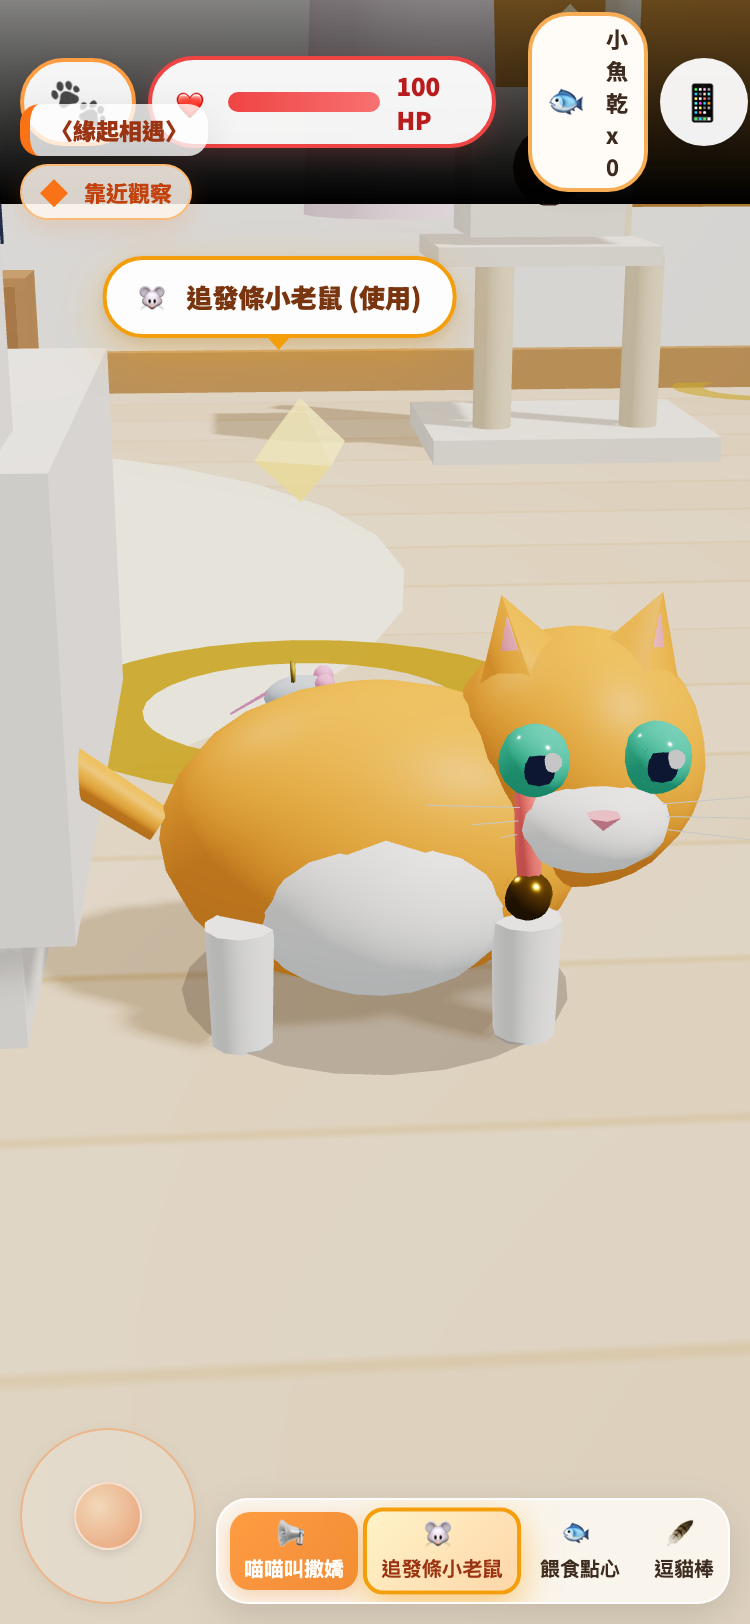
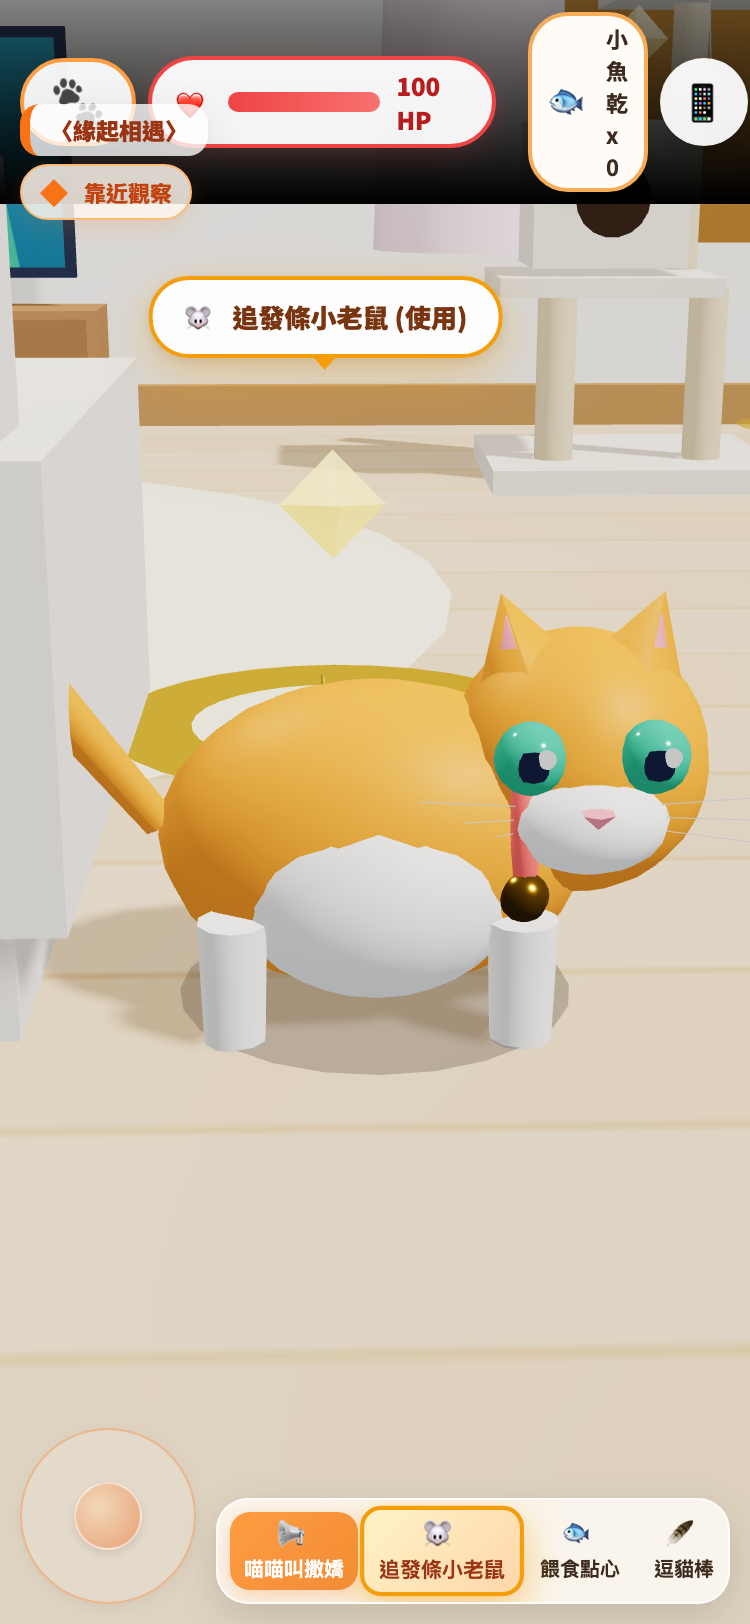
feat(ui): prompt player to choose cat perspective or owner perspective before starting game

diff --git a/index.html b/index.html
@@ -6,7 +6,7 @@
   <meta name="apple-mobile-web-app-capable" content="yes">
   <meta name="apple-mobile-web-app-status-bar-style" content="black-translucent">
   <title>《小女生：膠水貓大冒險》3D 沉浸式教育遊戲</title>
-  <link rel="stylesheet" href="css/style.css?v=20261027_6">
+  <link rel="stylesheet" href="css/style.css?v=20261027_7">
   <!-- Three.js 核心庫 (CDN) -->
   <script src="https://cdnjs.cloudflare.com/ajax/libs/three.js/r128/three.min.js"></script>
 </head>
@@ -32,9 +32,12 @@
       <div class="title-badge">國語三上第六課 鍾怡雯〈小女生〉</div>
       <h1 class="title-heading">《膠水貓大冒險》3D 沉浸式課文探索</h1>
       <p class="title-subtitle">在 3D 溫馨客廳中體驗「小女生」形影不離的陪伴，挑戰 PIRLS 五層次提問與課文探索！</p>
+      <div style="background: #fff7ed; border: 1.5px solid #fdba74; color: #9a3412; border-radius: 14px; padding: 8px 14px; font-size: 13px; font-weight: 700; margin-bottom: 14px; display: inline-block;">
+        👀 雙視角自由體驗：開始前可選擇【🐱 貓咪視角（小女生）】或【🧑🎨 主人視角（小主人）】！
+      </div>
       <div class="title-actions">
         <button id="tCont" class="btn-primary-glow" style="display:none;" onclick="curriculumSystem.continueGame()">▶ 繼續冒險</button>
-        <button id="tStart" class="btn-primary-glow" onclick="curriculumSystem.startNewGame()">🐾 開始新探索</button>
+        <button id="tStart" class="btn-primary-glow" onclick="curriculumSystem.startNewGame()">🐾 開始探索（選擇視角）</button>
         <button id="tStages" class="btn-secondary" onclick="curriculumSystem.openStagesModal()">📖 關卡與章節一覽</button>
       </div>
       <div class="title-teacher-row">
@@ -44,45 +47,44 @@
     </div>
   </div>
 
-  <!-- 開局身分選擇面板 -->
+  <!-- 開局身分與視角選擇面板 -->
   <div id="role-select-modal" class="modal-overlay" style="z-index: 200;">
     <div class="modal-card" style="max-width: 680px; text-align: center;">
-      <div style="font-size: 42px; margin-bottom: 8px;">🐱✨</div>
-      <div class="modal-tag">國語三上第六課〈小女生〉・3D沉浸式互動遊戲</div>
-      <h1 style="font-size: 26px; font-weight: 900; color: #b45309; margin-bottom: 8px;">
-        《<ruby>小<rt>ㄒㄧㄠˇ</rt>女<rt>ㄋㄩˇ</rt>生<rt>ㄕㄥ</rt></ruby>：膠水貓大冒險》
-      </h1>
-      <p style="font-size: 15px; color: #78350f; margin-bottom: 24px;">
-        請選擇你在 3D 故事世界中想要體驗的身分：
+      <div class="modal-tag">步驟 1：選擇你的遊玩視角</div>
+      <h2 style="font-size: 22px; font-weight: 900; color: #b45309; margin: 6px 0 6px;">
+        請選擇你想體驗的視角與身分
+      </h2>
+      <p style="font-size: 13.5px; color: #78350f; margin-bottom: 14px;">
+        你可以化身可愛橘貓「小女生」或溫暖的「小主人」（遊戲中隨時可按右上角 🔄 切換視角）：
       </p>
 
-      <div style="display: grid; grid-template-columns: 1fr 1fr; gap: 16px; margin-bottom: 24px;">
-        <!-- 選項 1：扮演小女生（貓咪） -->
+      <div class="role-select-grid" style="display: grid; grid-template-columns: 1fr 1fr; gap: 14px; margin-bottom: 8px;">
+        <!-- 選項 1：扮演小女生（貓咪視角） -->
         <div class="role-card" id="select-cat-card" onclick="selectRole('cat')">
-          <div style="font-size: 54px; margin-bottom: 10px;">🐾</div>
-          <h3 style="font-size: 20px; font-weight: 800; color: #ea580c; margin-bottom: 6px;">扮演「小女生」（貓咪）</h3>
-          <div style="font-size: 12px; color: #c2410c; font-weight: 700; margin-bottom: 10px;">【30cm 貼地貓貓視角】</div>
-          <p style="font-size: 13px; color: #6b7280; line-height: 1.6; text-align: left;">
-            • 在沙發四腳朝天翻白肚子<br>
-            • 當一隻隨時黏在主人身邊的「膠水貓」<br>
-            • 窗台拍蝴蝶、在洗手間門外喵喵叫<br>
-            • 跳上沙發大腿向主人討點心！
+          <div class="role-emoji" style="font-size: 44px; margin-bottom: 6px;">🐱</div>
+          <h3 style="font-size: 18px; font-weight: 800; color: #ea580c; margin-bottom: 4px;">貓咪視角：小女生</h3>
+          <div style="font-size: 12px; color: #c2410c; font-weight: 700; margin-bottom: 8px;">【30cm 貼地貓貓視角】</div>
+          <p class="role-desc" style="font-size: 12.5px; color: #57534e; line-height: 1.5; text-align: left;">
+            • 體驗低視角仰望客廳與家具<br>
+            • 在沙發四腳朝天翻出白肚子<br>
+            • 跳上貓跳台、碰觸毛線球與老鼠<br>
+            • 當一隻黏在主人身邊的「膠水貓」
           </p>
-          <button class="btn-confirm" style="margin-top: 16px; width: 100%;">選我！當可愛橘貓 🐱</button>
+          <button class="btn-confirm" style="margin-top: 12px; width: 100%; padding: 9px 12px; font-size: 14px;">選我！以貓咪視角開始 🐾</button>
         </div>
 
-        <!-- 選項 2：扮演小主人（作者） -->
+        <!-- 選項 2：扮演小主人（主人視角） -->
         <div class="role-card" id="select-human-card" onclick="selectRole('human')">
-          <div style="font-size: 54px; margin-bottom: 10px;">🧑🎨</div>
-          <h3 style="font-size: 20px; font-weight: 800; color: #2563eb; margin-bottom: 6px;">扮演「小主人」（人類）</h3>
-          <div style="font-size: 12px; color: #1d4ed8; font-weight: 700; margin-bottom: 10px;">【第三人稱守護者視角】</div>
-          <p style="font-size: 13px; color: #6b7280; line-height: 1.6; text-align: left;">
-            • 大叫「小女生——」呼喚貓咪飛奔過來<br>
+          <div class="role-emoji" style="font-size: 44px; margin-bottom: 6px;">🧑🎨</div>
+          <h3 style="font-size: 18px; font-weight: 800; color: #2563eb; margin-bottom: 4px;">主人視角：小主人</h3>
+          <div style="font-size: 12px; color: #1d4ed8; font-weight: 700; margin-bottom: 8px;">【第三人稱主人視角】</div>
+          <p class="role-desc" style="font-size: 12.5px; color: #57534e; line-height: 1.5; text-align: left;">
+            • 大叫「小女生——」呼喚貓咪奔來<br>
             • 坐在沙發上揮舞逗貓棒、摸摸下巴<br>
-            • 答對國語題目收集小魚乾餵食貓咪<br>
-            • 體驗人與寵物溫馨的陪伴與依賴！
+            • 觀察小女生把前腳搭在大腿上撒嬌<br>
+            • 收集小魚乾餵食並陪伴小女生
           </p>
-          <button class="btn-confirm" style="margin-top: 16px; width: 100%; background: linear-gradient(135deg, #3b82f6, #2563eb);">選我！當暖心鏟屎官 🏡</button>
+          <button class="btn-confirm" style="margin-top: 12px; width: 100%; padding: 9px 12px; font-size: 14px; background: linear-gradient(135deg, #3b82f6, #2563eb);">選我！以主人視角開始 🏡</button>
         </div>
       </div>
     </div>
@@ -340,10 +342,10 @@
   </div>
 
   <!-- 依序載入關卡題庫、音效系統、教學邏輯與 3D 引擎 -->
-  <script src="js/stations.js?v=20261027_6"></script>
-  <script src="js/audio.js?v=20261027_6"></script>
-  <script src="js/curriculum.js?v=20261027_6"></script>
-  <script src="js/game.js?v=20261027_6"></script>
+  <script src="js/stations.js?v=20261027_7"></script>
+  <script src="js/audio.js?v=20261027_7"></script>
+  <script src="js/curriculum.js?v=20261027_7"></script>
+  <script src="js/game.js?v=20261027_7"></script>
 
   <script>
     function selectRole(role) {
@@ -356,6 +358,9 @@
 
       if (window.game) {
         window.game.setRole(role);
+      }
+      if (window.curriculumSystem) {
+        window.curriculumSystem.confirmRoleAndStart(role);
       }
     }
 

diff --git a/css/style.css b/css/style.css
@@ -1037,19 +1037,37 @@ rt {
 /* ==========================================================================
    手機與平板響應式排版 (Responsive Media Queries)
    ========================================================================== */
+@media (max-width: 560px) {
+  #role-select-modal .role-select-grid {
+    grid-template-columns: 1fr !important;
+    gap: 10px !important;
+  }
+}
+
+@media (max-height: 500px) and (min-width: 561px) {
+  #role-select-modal .role-select-grid {
+    grid-template-columns: 1fr 1fr !important;
+    gap: 10px !important;
+  }
+  #role-select-modal .role-emoji {
+    font-size: 30px !important;
+    margin-bottom: 2px !important;
+  }
+  #role-select-modal .role-desc {
+    font-size: 11px !important;
+    line-height: 1.35 !important;
+  }
+}
+
 @media (max-width: 899px), (max-height: 500px) {
-  /* 開局角色選擇彈窗在手機上垂直捲動排列 */
+  /* 開局角色選擇彈窗在手機上精巧並排或適應螢幕 */
   #role-select-modal .modal-card {
-    padding: 20px 16px;
-    max-height: 90vh;
+    padding: 14px 14px;
+    max-height: 92vh;
     overflow-y: auto;
   }
-  #role-select-modal .modal-card > div[style*="grid-template-columns"] {
-    grid-template-columns: 1fr !important;
-    gap: 12px !important;
-  }
   .role-card {
-    padding: 16px 14px;
+    padding: 12px 12px;
   }
 
   /* 頂部資訊列精簡 */

diff --git a/js/curriculum.js b/js/curriculum.js
@@ -116,14 +116,13 @@ class CurriculumSystem {
     this.G.totalMistakes = 0;
     this.G.cleared = new Set();
     this.saveGame();
-    this.enterStation(0);
-    this.showGameUI();
+    this.openRoleSelectModal();
   }
 
   continueGame() {
-    this.showGameUI();
     if (this.G.station >= this.ST.length) {
-      // 已全通關：直接顯示結業證書
+      // 已全通關：直接顯示結業證書 (滿足 cert_check.py 自動檢測)
+      this.showGameUI();
       const rec = this.currentRec || {
         name: '優秀同學',
         grade: '金牌貓咪守護者',
@@ -136,8 +135,25 @@ class CurriculumSystem {
       };
       this.showCertificate(rec);
     } else {
-      this.enterStation(this.G.station);
+      this.openRoleSelectModal();
     }
+  }
+
+  openRoleSelectModal() {
+    const title = document.getElementById('title');
+    if (title) title.style.display = 'none';
+    const roleSelect = document.getElementById('role-select-modal');
+    if (roleSelect) {
+      roleSelect.classList.remove('hide');
+      roleSelect.classList.add('active');
+    } else {
+      this.confirmRoleAndStart('cat');
+    }
+  }
+
+  confirmRoleAndStart(role) {
+    this.showGameUI();
+    this.enterStation(this.G.station);
   }
 
   showGameUI() {
